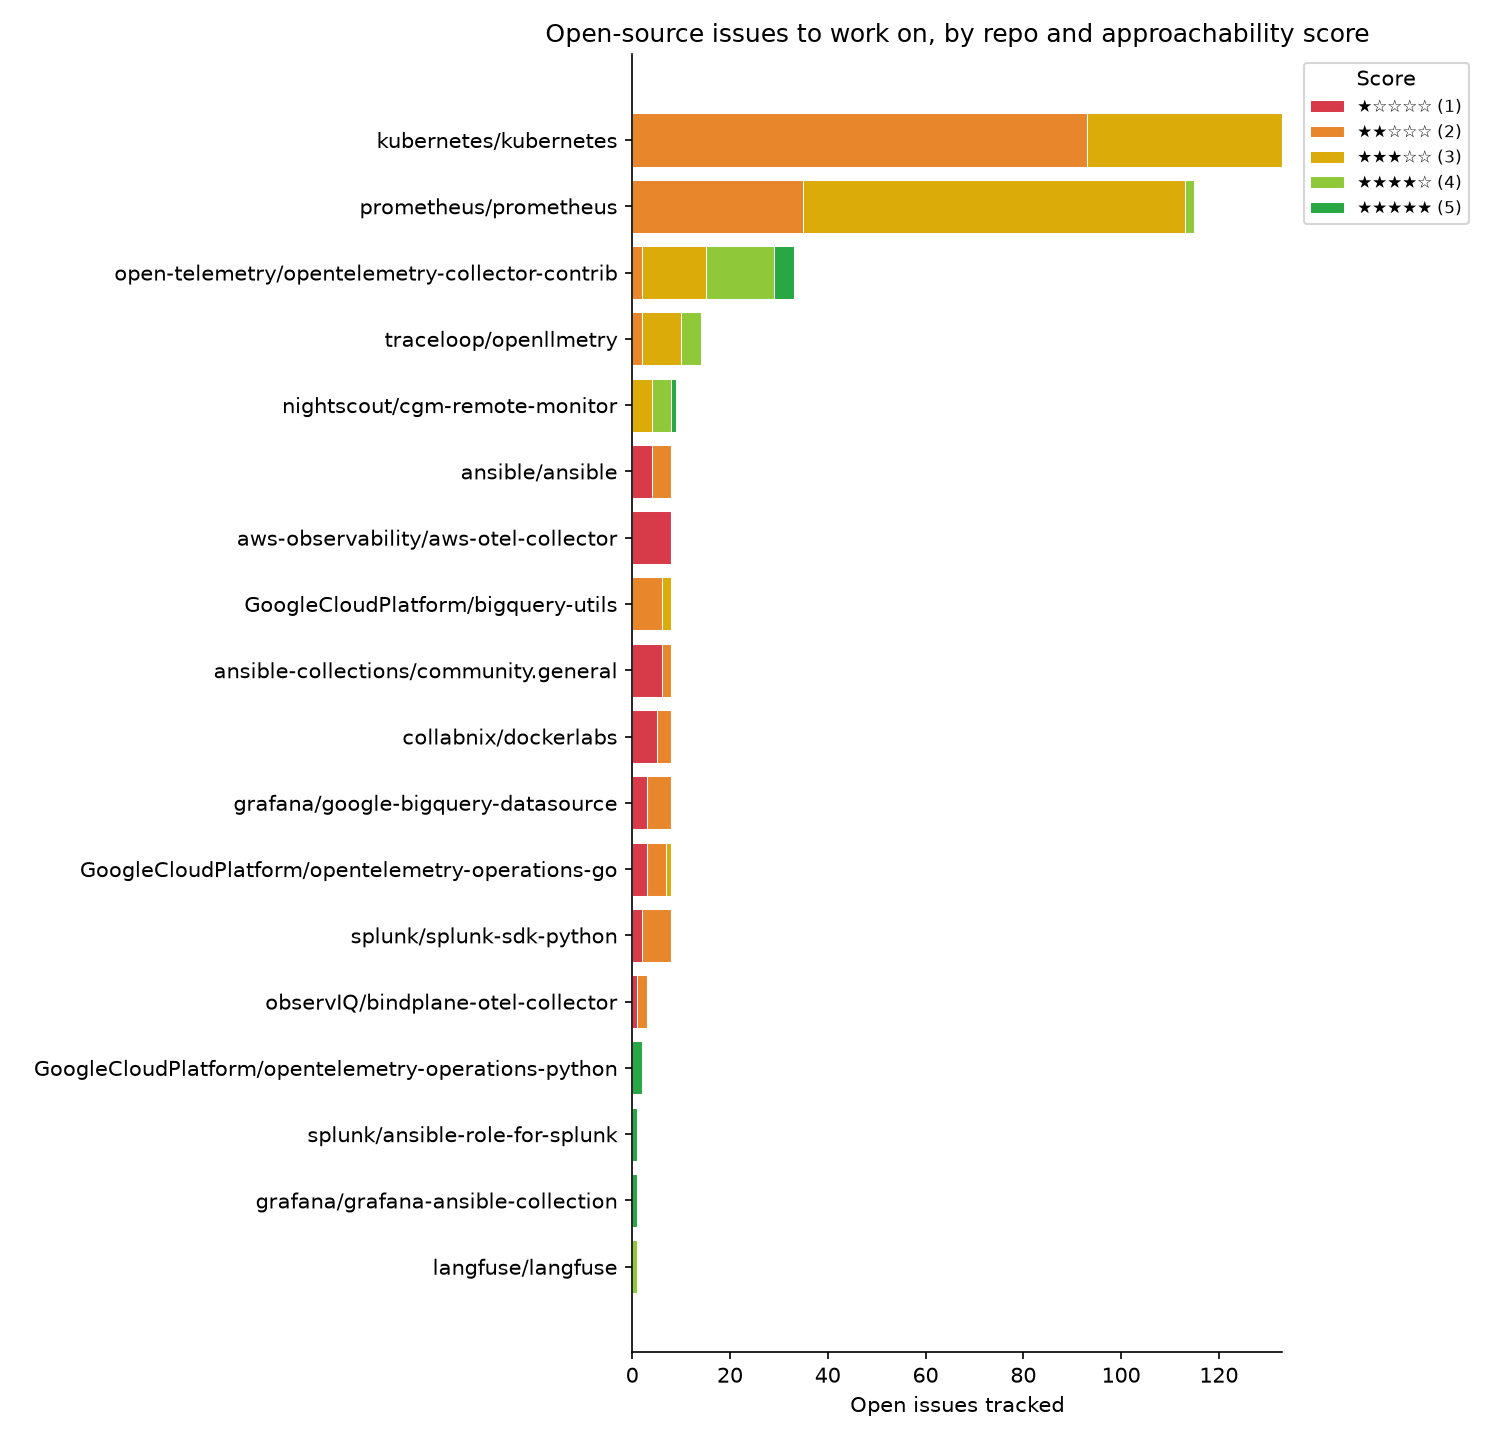
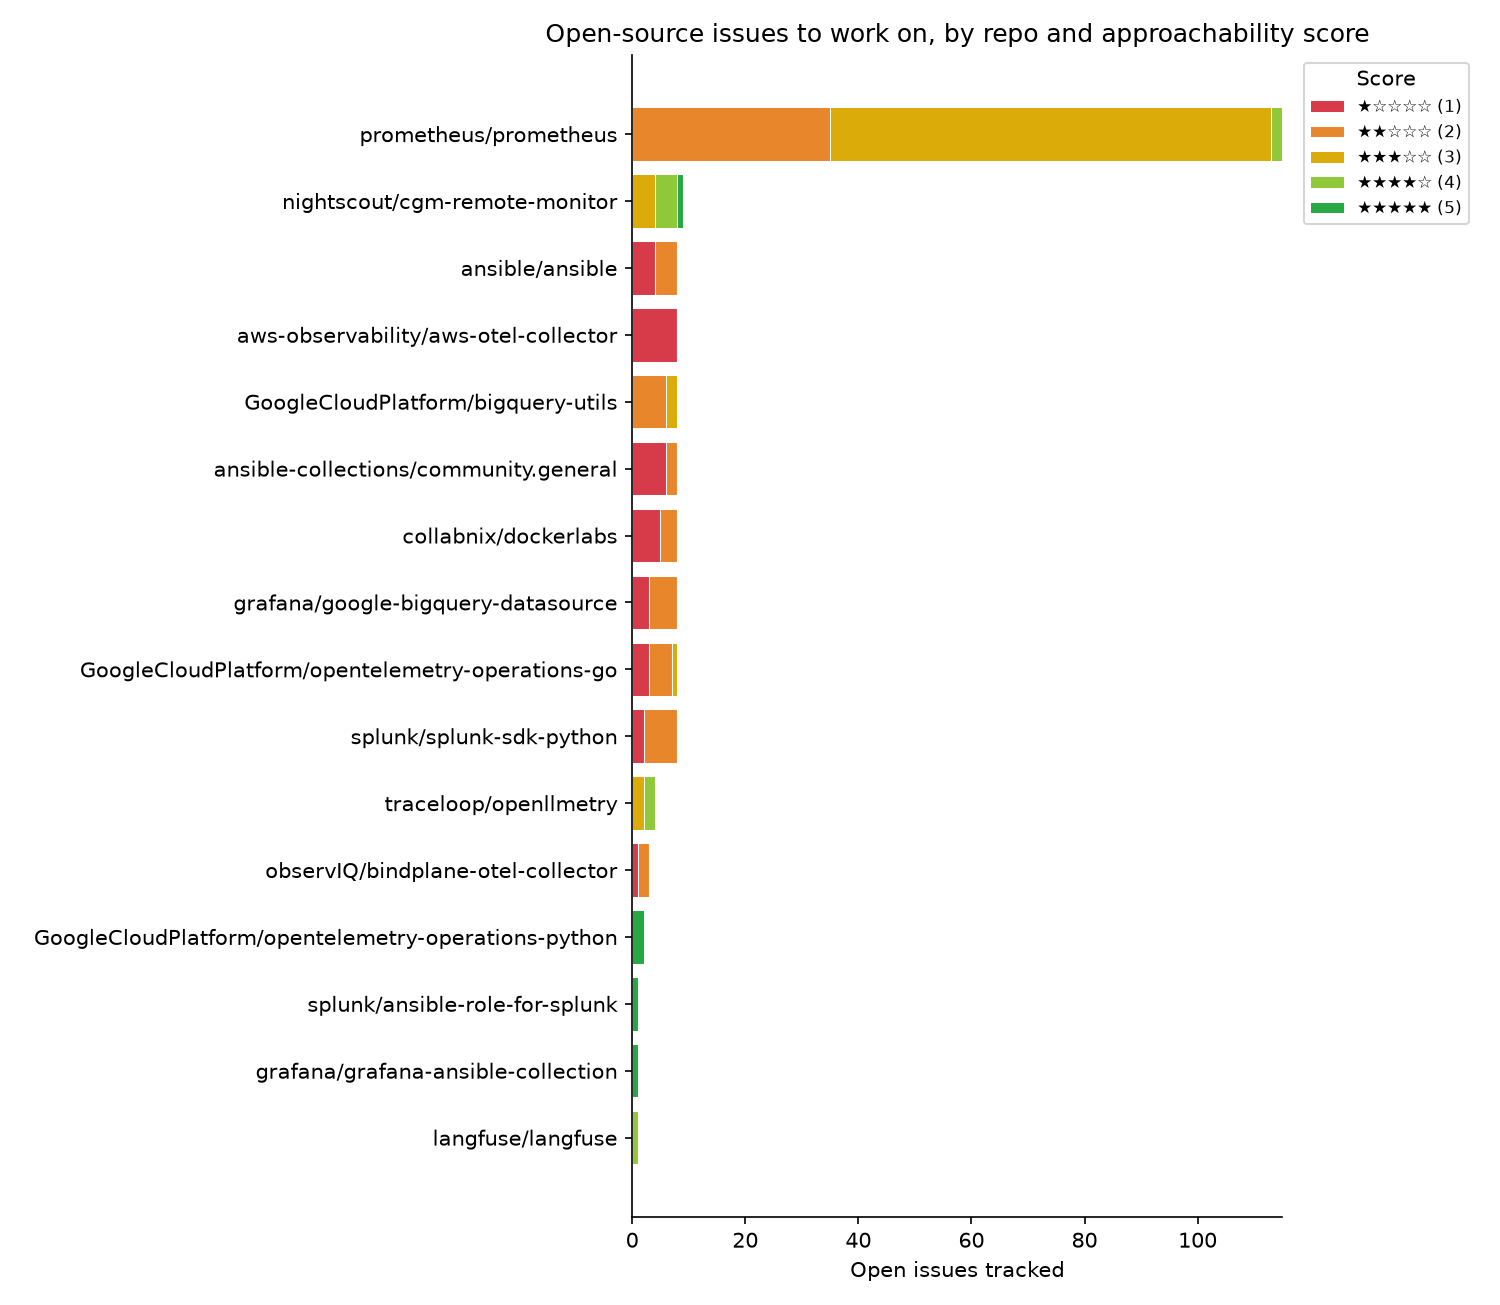
Weekly issue tracker refresh

Changed region(s): [[0.0307, 0.0, 0.9813, 0.8889], [0.4293, 0.9195, 0.8587, 0.9808]]

diff --git a/README.md b/README.md
@@ -81,9 +81,9 @@ See [CONTRIBUTING.md](CONTRIBUTING.md) for the full contributor workflow — inc
 
 <!-- TRACKER:START -->
 
-_Last updated: 2026-09-09 09:26 UTC_
+_Last updated: 2026-09-09 13:49 UTC_
 
-_Tracking **18** upstream repos, **376** relevant open issues._
+_Tracking **18** upstream repos, **200** relevant open issues._
 
 ![Open issues by repo and score](assets/issues_by_repo.png)
 
@@ -191,19 +191,6 @@ _Tracking **18** upstream repos, **376** relevant open issues._
 |---|---|---|---|---|
 | ★★★★★ | [#268](https://github.com/grafana/grafana-ansible-collection/issues/268) Add Workflow to Upload collection verion to Ansible Galaxy | good first issue, help wanted | 0 | 2024-09-13 |
 
-### [kubernetes/kubernetes](https://github.com/kubernetes/kubernetes)
-
-| Score | Issue | Labels | Comments | Updated |
-|---|---|---|---|---|
-| ★★★☆☆ | [#138149](https://github.com/kubernetes/kubernetes/issues/138149) Migrate DRA components to support granular authorization on status updates | sig/network, sig/node, sig/auth, help wanted, good first issue, triage/accepted, wg/device-management | 78 | 2026-09-09 |
-| ★★★☆☆ | [#141819](https://github.com/kubernetes/kubernetes/issues/141819) E2E testing: check for goroutine leaks | kind/feature, help wanted, sig/testing, needs-triage | 7 | 2026-09-07 |
-| ★★★☆☆ | [#25836](https://github.com/kubernetes/kubernetes/issues/25836) Audit all APIs for selector fields, ensure documented semantics when nil or empty. | priority/backlog, help wanted, sig/architecture, lifecycle/frozen | 9 | 2026-09-02 |
-| ★★★☆☆ | [#140489](https://github.com/kubernetes/kubernetes/issues/140489) Add `[Feature:Networking-IPv6]` and `[Feature:SCTPConnectivity]` CI | sig/network, help wanted, sig/testing, area/ipv6, triage/accepted, area/network-policy | 10 | 2026-09-01 |
-| ★★★☆☆ | [#118172](https://github.com/kubernetes/kubernetes/issues/118172) kubelet parameter(eviction-max-pod-grace-period ), not work as expected like officical comment. | kind/bug, priority/backlog, kind/documentation, sig/node, help wanted, priority/important-longterm, good first issue, triage/accepted | 39 | 2026-09-01 |
-| ★★★☆☆ | [#126379](https://github.com/kubernetes/kubernetes/issues/126379) add and use alternative APIs which support contextual logging | area/logging, kind/feature, help wanted, sig/instrumentation, good first issue, triage/accepted, wg/structured-logging | 43 | 2026-08-29 |
-| ★★★☆☆ | [#112733](https://github.com/kubernetes/kubernetes/issues/112733) Node lifecycle controller does not `markPodsNotReady` when the node `Ready` state changes from `false` to `unknown` | kind/bug, sig/node, help wanted, good first issue, triage/accepted | 35 | 2026-08-25 |
-| ★★★☆☆ | [#133877](https://github.com/kubernetes/kubernetes/issues/133877) Prevent duplicate initializations of cache and etcd store | kind/bug, sig/api-machinery, help wanted, triage/accepted | 5 | 2026-08-22 |
-
 ### [langfuse/langfuse](https://github.com/langfuse/langfuse)
 
 | Score | Issue | Labels | Comments | Updated |
@@ -230,19 +217,6 @@ _Tracking **18** upstream repos, **376** relevant open issues._
 | ★★☆☆☆ | [#3596](https://github.com/observIQ/bindplane-otel-collector/issues/3596) How to handle process stuck in shutdown. | — | 0 | 2026-08-04 |
 | ★★☆☆☆ | [#2542](https://github.com/observIQ/bindplane-otel-collector/issues/2542) Add TCP Check receiver | — | 0 | 2025-08-23 |
 | ★☆☆☆☆ | [#2296](https://github.com/observIQ/bindplane-otel-collector/issues/2296) install_unix.sh breaks with status code 2 in non-interactive environments | — | 4 | 2026-03-04 |
-
-### [open-telemetry/opentelemetry-collector-contrib](https://github.com/open-telemetry/opentelemetry-collector-contrib)
-
-| Score | Issue | Labels | Comments | Updated |
-|---|---|---|---|---|
-| ★★★★★ | [#38092](https://github.com/open-telemetry/opentelemetry-collector-contrib/issues/38092) [CI/CD\| run no race tests in CIs too | enhancement, good first issue, ci-cd, never stale | 10 | 2026-09-08 |
-| ★★★★★ | [#50330](https://github.com/open-telemetry/opentelemetry-collector-contrib/issues/50330) Support component status attributes | enhancement, good first issue, extension/opamp | 4 | 2026-08-19 |
-| ★★★★★ | [#48420](https://github.com/open-telemetry/opentelemetry-collector-contrib/issues/48420) [processor/tailsampling] Change default `error_mode` to `ignore` | enhancement, help wanted, good first issue, processor/tailsampling | 5 | 2026-08-17 |
-| ★★★★★ | [#48419](https://github.com/open-telemetry/opentelemetry-collector-contrib/issues/48419) [connector/signaltometrics] Change default `error_mode` to `ignore` | enhancement, help wanted, good first issue, connector/signaltometrics | 6 | 2026-08-03 |
-| ★★★★☆ | [#48079](https://github.com/open-telemetry/opentelemetry-collector-contrib/issues/48079) [pkg/pdatatest] New MTS-focused metric assertion framework | enhancement, help wanted, Stale, pkg/pdatatest | 2 | 2026-09-06 |
-| ★★★★☆ | [#39333](https://github.com/open-telemetry/opentelemetry-collector-contrib/issues/39333) Add system.cpu.socket.id and system.cpu.core.id attributes | enhancement, good first issue, processor/resourcedetection, never stale | 12 | 2026-09-06 |
-| ★★★★☆ | [#39342](https://github.com/open-telemetry/opentelemetry-collector-contrib/issues/39342) [exporter/elasticsearch] Document indexed document structure | enhancement, good first issue, Stale, exporter/elasticsearch | 21 | 2026-08-27 |
-| ★★★★☆ | [#27629](https://github.com/open-telemetry/opentelemetry-collector-contrib/issues/27629) CI/CD: Add label automation to Discussions | enhancement, help wanted, ci-cd, never stale | 5 | 2026-08-04 |
 
 ### [prometheus/prometheus](https://github.com/prometheus/prometheus)
 
@@ -282,12 +256,8 @@ _Tracking **18** upstream repos, **376** relevant open issues._
 |---|---|---|---|---|
 | ★★★★☆ | [#137](https://github.com/traceloop/openllmetry/issues/137) 🚀 Feature: allow disabling prompt sending as an argument to Traceloop.init() | enhancement, good first issue | 18 | 2026-08-14 |
 | ★★★★☆ | [#417](https://github.com/traceloop/openllmetry/issues/417) 🐛 Bug Report: disabled tests for GCP / VertexAI | good first issue, help wanted, testing | 7 | 2026-07-29 |
-| ★★★★☆ | [#2303](https://github.com/traceloop/openllmetry/issues/2303) 🚀 Feature: Support for Azure AI Search | enhancement, good first issue, help wanted | 16 | 2026-05-18 |
-| ★★★★☆ | [#2283](https://github.com/traceloop/openllmetry/issues/2283) 🚀 Feature: Add instruments support for httpx | enhancement, good first issue | 11 | 2025-11-06 |
 | ★★★☆☆ | [#4069](https://github.com/traceloop/openllmetry/issues/4069) 🚀 Feature: Suggestion: Add beginner-friendly example for LLM tracing | good first issue | 11 | 2026-09-06 |
 | ★★★☆☆ | [#785](https://github.com/traceloop/openllmetry/issues/785) 🚀 Feature: Support runpod.ai | help wanted, new instrumentation | 4 | 2026-08-19 |
-| ★★★☆☆ | [#3492](https://github.com/traceloop/openllmetry/issues/3492) 🐛 Bug Report: `opentelemetry-instrumentation-qdrant` is incompatible with `qdrant-client` version `1.16.1` | good first issue, help wanted | 12 | 2026-07-09 |
-| ★★★☆☆ | [#2803](https://github.com/traceloop/openllmetry/issues/2803) 🚀 Feature: Install less packages | good first issue, help wanted | 19 | 2026-06-08 |
 
 
 <!-- TRACKER:END -->
@@ -296,7 +266,7 @@ _Tracking **18** upstream repos, **376** relevant open issues._
 
 <!-- METRICS:START -->
 
-_Last run: 2026-09-09 09:25 UTC, took **72.2s**, **114** GitHub API calls, **4886/5000** rate limit remaining._
+_Last run: 2026-09-09 13:48 UTC, took **47.9s**, **54** GitHub API calls, **4946/5000** rate limit remaining._
 
 ![Scrape metrics trend](assets/metrics_trend.png)
 
